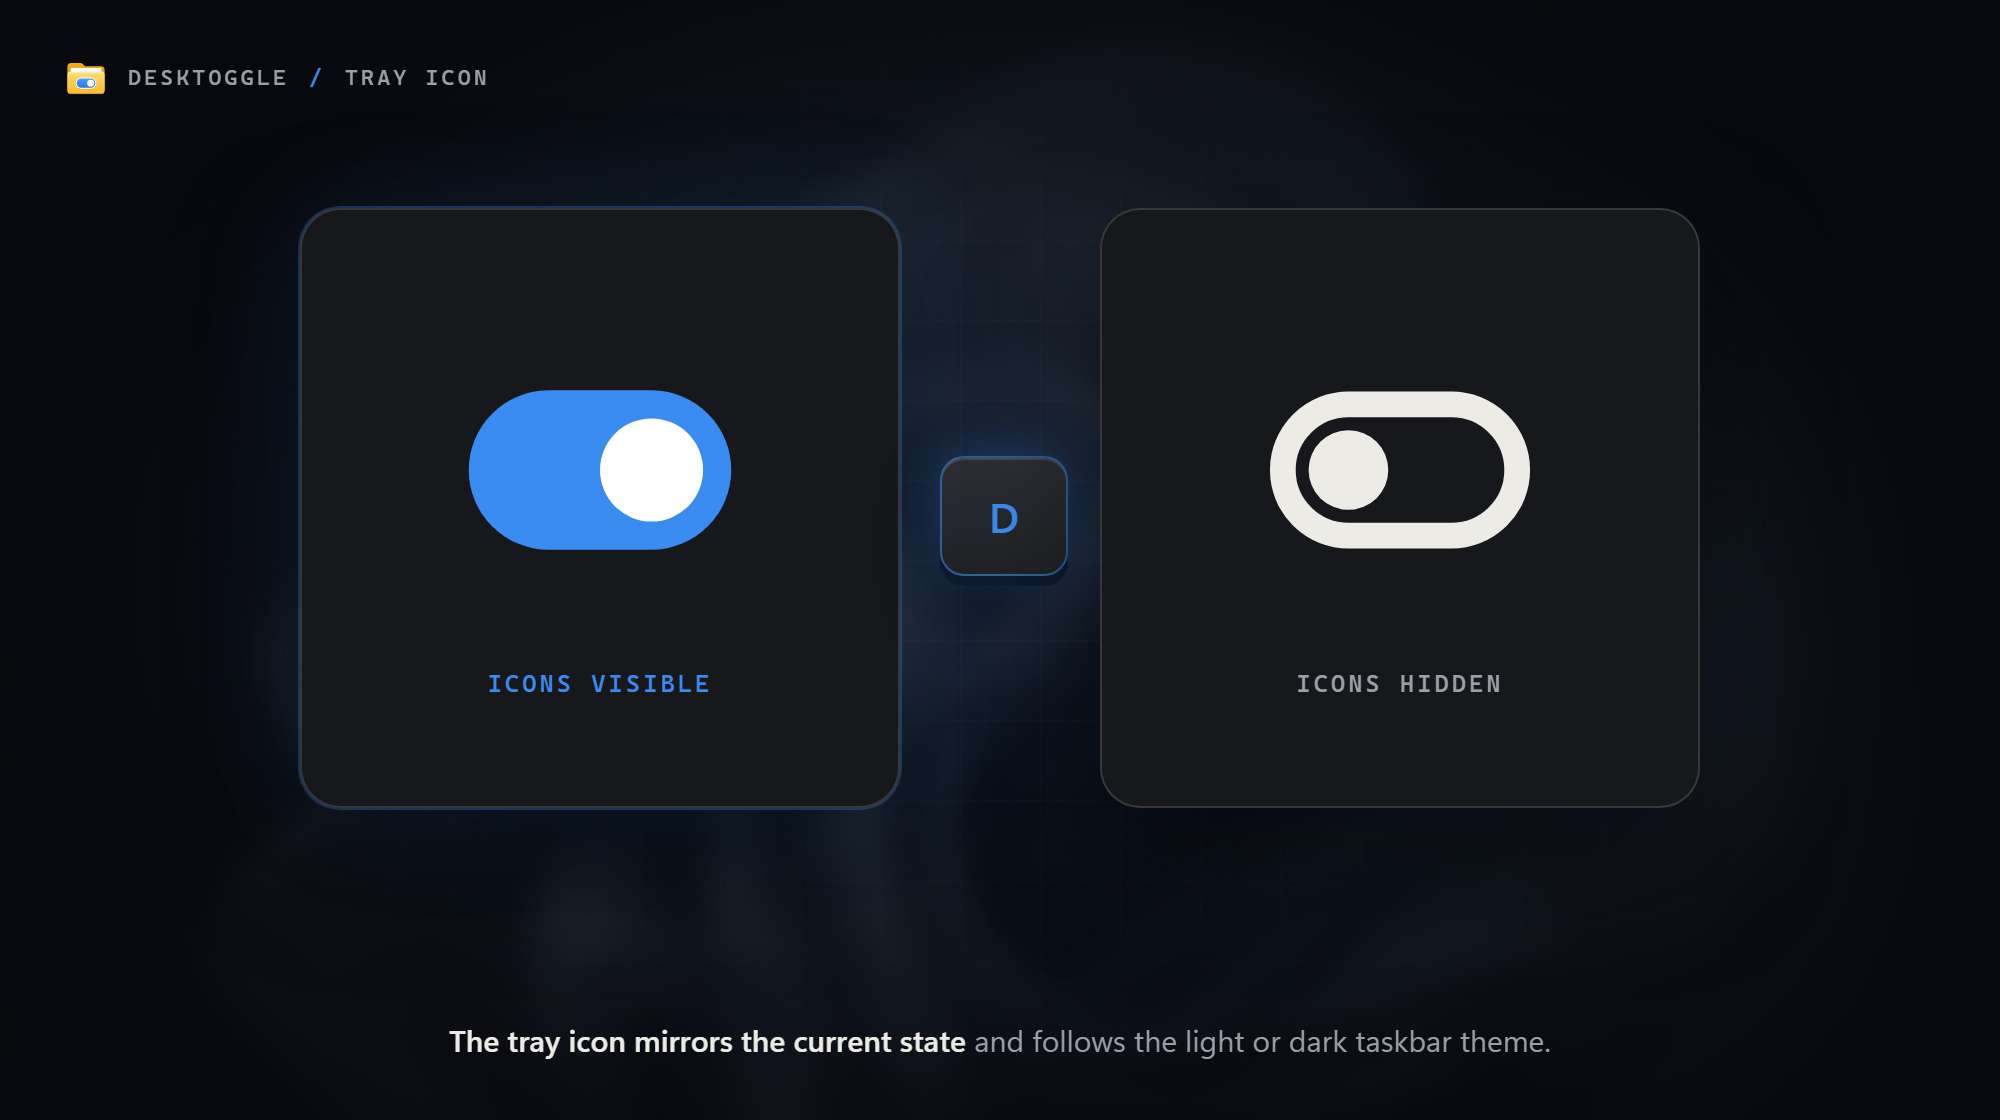
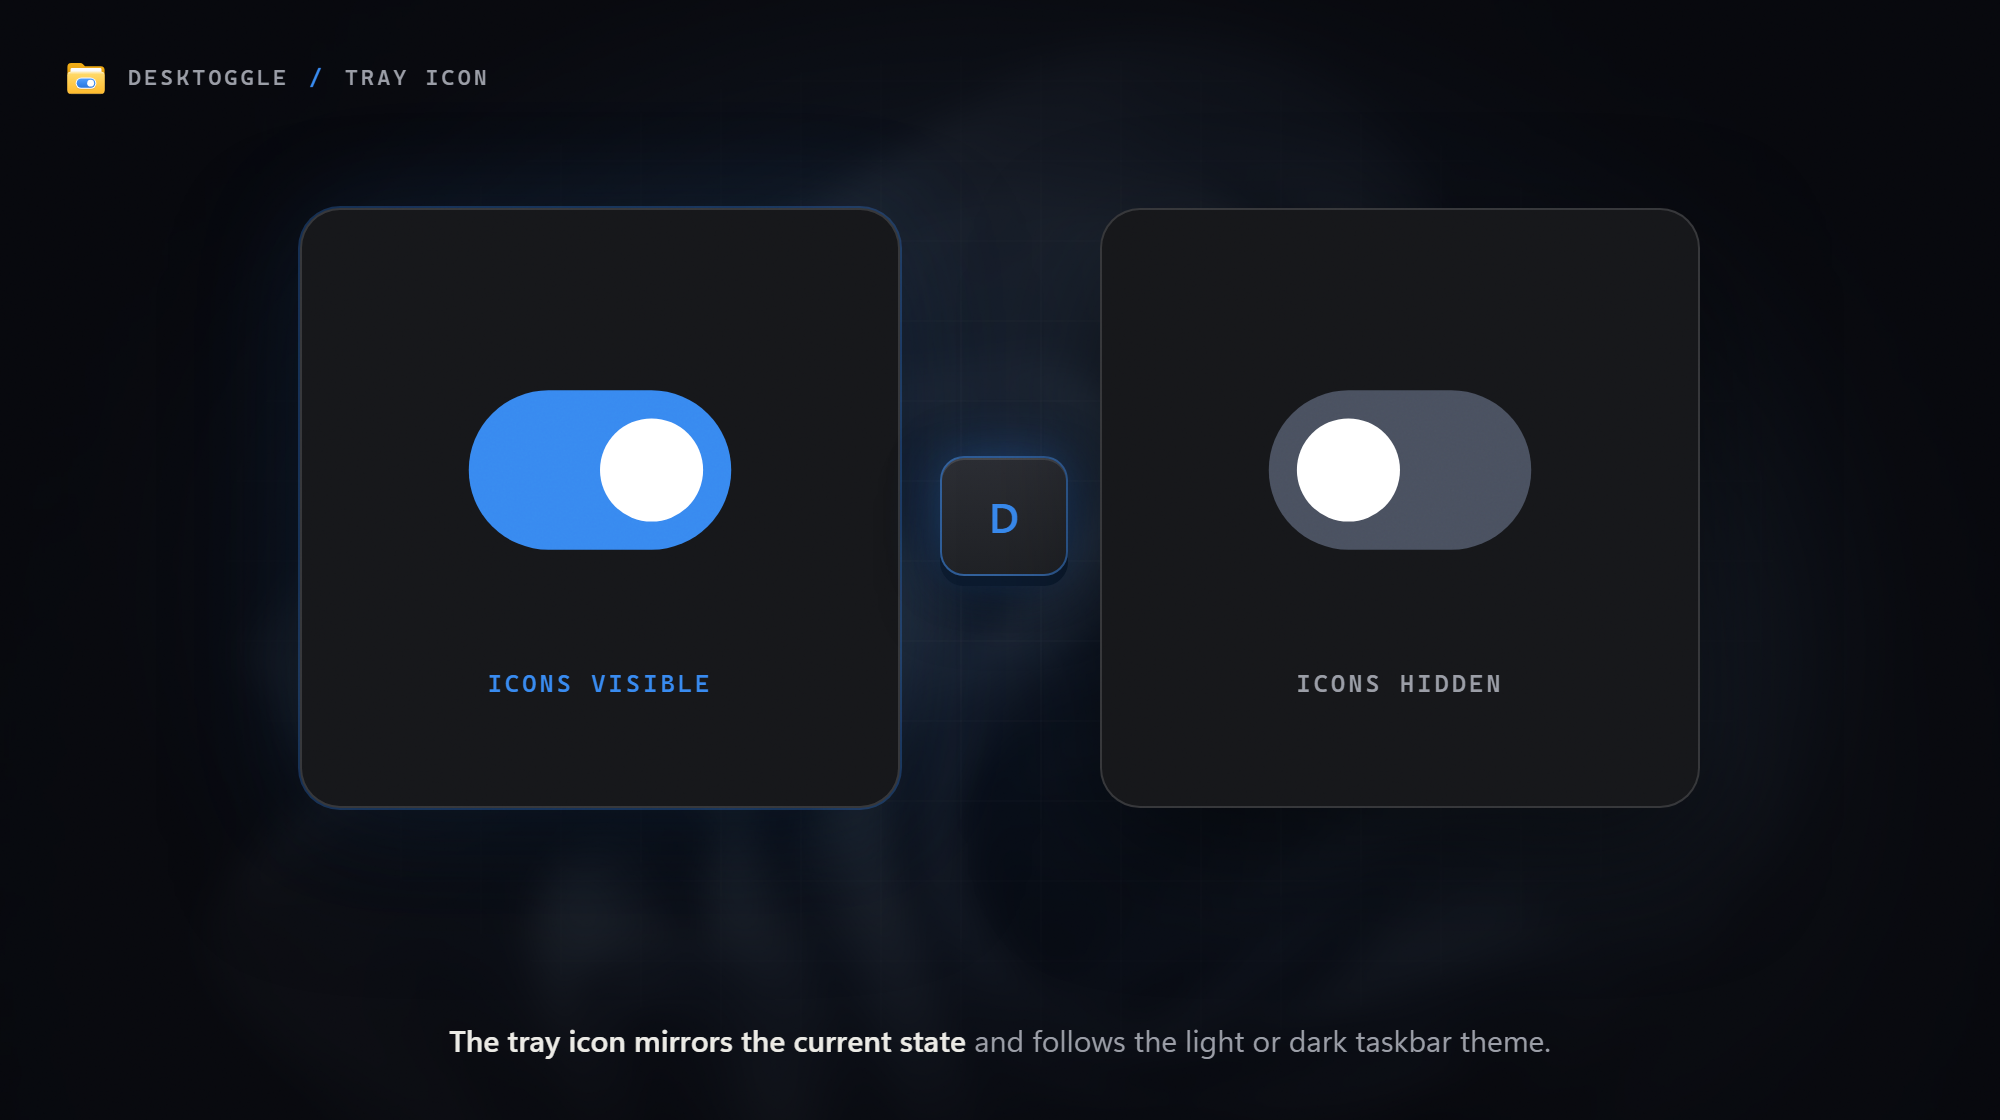
fix(tray): unify hidden tray switch geometry with visible state

Changed region(s): [[0.62, 0.3438, 0.775, 0.5]]

diff --git a/assets/brand/frames/icon-states.html b/assets/brand/frames/icon-states.html
@@ -29,8 +29,8 @@
   <div class="mid keys"><span class="key signal">D</span></div>
   <div class="st b">
     <svg viewBox="0 0 64 64">
-      <rect x="7" y="18" width="50" height="28" rx="14" fill="none" stroke="#ECEBE6" stroke-width="5.5"/>
-      <circle cx="21" cy="32" r="8.5" fill="#ECEBE6"/>
+      <rect x="4" y="15" width="56" height="34" rx="17" fill="#4A5160"/>
+      <circle cx="21" cy="32" r="11" fill="#FFFFFF"/>
     </svg>
     <span class="label">Icons hidden</span>
   </div>

diff --git a/src/DesktopIconsToggle/TrayIconArt.cs b/src/DesktopIconsToggle/TrayIconArt.cs
@@ -4,21 +4,23 @@ using DesktopIconsToggle.Native;
 namespace DesktopIconsToggle;
 
 /// <summary>
-/// Draws the two tray icon states the notification area shows: a filled blue toggle switch
-/// with its white knob on the right while the desktop icons are visible, and an outlined
-/// toggle switch with its knob on the left while they are hidden — so the tray icon itself
-/// answers "are my icons on" at a glance. Built the way <see cref="MenuIcons"/> builds its
-/// bitmaps — a 32-bit top-down <c>CreateDIBSection</c> written directly as premultiplied
-/// BGRA — then turned into an <c>HICON</c> via <c>CreateIconIndirect</c>. Sized from
-/// <c>SM_CXSMICON</c> so the art tracks DPI instead of being fixed to 16 px, and coloured
-/// from <see cref="Theme.IsSystemDark"/> — the taskbar/notification-area theme, which is
-/// independent of the app theme <see cref="MenuIcons"/> uses for the popup menu.
+/// Draws the two tray icon states the notification area shows: the exact same solid toggle
+/// switch in both states — filled blue with its white knob on the right while the desktop
+/// icons are visible, and filled neutral slate with the same white knob slid to the left while
+/// they are hidden — so the tray icon reads as one switch toggling on and off at a glance.
+/// Built the way <see cref="MenuIcons"/> builds its bitmaps — a 32-bit top-down
+/// <c>CreateDIBSection</c> written directly as premultiplied BGRA — then turned into an
+/// <c>HICON</c> via <c>CreateIconIndirect</c>. Sized from <c>SM_CXSMICON</c> so the art tracks
+/// DPI instead of being fixed to 16 px, and coloured from <see cref="Theme.IsSystemDark"/> —
+/// the taskbar/notification-area theme, which is independent of the app theme
+/// <see cref="MenuIcons"/> uses for the popup menu.
 /// </summary>
 internal sealed class TrayIconArt : IDisposable
 {
-    // COLORREF-style values (0x00BBGGRR), but grayscale so channel order is moot.
-    private const uint LightTaskbarColor = 0x00202020u; // near-black, for a light taskbar
-    private const uint DarkTaskbarColor  = 0x00EBEBEBu; // near-white, for a dark taskbar
+    // Inactive track fills (COLORREF 0x00BBGGRR) chosen so both the pill against the taskbar
+    // and the white knob against the pill stay clearly legible in dark and light modes.
+    private const uint DarkTaskbarOffTrackColor  = 0x0060514Au; // RGB(74, 81, 96)  (#4A5160)
+    private const uint LightTaskbarOffTrackColor = 0x0090827Bu; // RGB(123, 130, 144) (#7B8290)
 
     // The active toggle blue, RGB(56, 138, 240) (#388AF0, shared with FolderTags),
     // written as a COLORREF (0x00BBGGRR): blue=0xF0, green=0x8A, red=0x38. Run through
@@ -35,10 +37,10 @@ internal sealed class TrayIconArt : IDisposable
         Refresh();
     }
 
-    /// <summary>Filled blue toggle pill with the knob on the right — desktop icons are visible.</summary>
+    /// <summary>Filled blue toggle pill with the white knob on the right — desktop icons are visible.</summary>
     public IntPtr Visible => _visible;
 
-    /// <summary>Outlined toggle pill with the knob on the left — desktop icons are hidden.</summary>
+    /// <summary>Same solid toggle pill in neutral slate with the white knob on the left — desktop icons are hidden.</summary>
     public IntPtr Hidden => _hidden;
 
     /// <summary>
@@ -56,11 +58,11 @@ internal sealed class TrayIconArt : IDisposable
             size = 16;
         }
 
-        uint frameColor = _theme.IsSystemDark ? DarkTaskbarColor : LightTaskbarColor;
-        uint tileColor = IconPalette.EnsureContrast(TileColor, _theme.IsSystemDark);
+        uint activeTrackColor = IconPalette.EnsureContrast(TileColor, _theme.IsSystemDark);
+        uint inactiveTrackColor = _theme.IsSystemDark ? DarkTaskbarOffTrackColor : LightTaskbarOffTrackColor;
 
-        IntPtr newVisible = Render(size, frameColor, tileColor, isVisible: true);
-        IntPtr newHidden = Render(size, frameColor, tileColor, isVisible: false);
+        IntPtr newVisible = Render(size, activeTrackColor, knobRight: true);
+        IntPtr newHidden = Render(size, inactiveTrackColor, knobRight: false);
 
         DestroyIfPresent(_visible);
         DestroyIfPresent(_hidden);
@@ -86,7 +88,7 @@ internal sealed class TrayIconArt : IDisposable
     /// failure: keeping them would leak, and the leak would repeat on every
     /// <see cref="Refresh"/>.
     /// </summary>
-    private static IntPtr Render(int size, uint frameColorRef, uint tileColorRef, bool isVisible)
+    private static IntPtr Render(int size, uint trackColorRef, bool knobRight)
     {
         IntPtr screenDc = Win32.GetDC(IntPtr.Zero);
         if (screenDc == IntPtr.Zero)
@@ -133,7 +135,7 @@ internal sealed class TrayIconArt : IDisposable
                 IntPtr previousBitmap = Win32.SelectObject(memDc, colorBitmap);
                 Win32.SelectObject(memDc, previousBitmap);
 
-                Paint(bits, size, frameColorRef, tileColorRef, isVisible);
+                Paint(bits, size, trackColorRef, knobRight);
 
                 IntPtr maskBitmap = Win32.CreateBitmap(size, size, 1, 1, IntPtr.Zero);
                 if (maskBitmap == IntPtr.Zero)
@@ -170,32 +172,24 @@ internal sealed class TrayIconArt : IDisposable
     }
 
     /// <summary>
-    /// Writes an anti-aliased horizontal toggle pill and circular knob directly into the
+    /// Writes an anti-aliased horizontal toggle pill and white circular knob directly into the
     /// DIB's premultiplied BGRA buffer using signed-distance fields on a 16-unit reference
-    /// grid scaled to <paramref name="size"/>. When <paramref name="isVisible"/> is true,
-    /// the pill is filled with <paramref name="tileColorRef"/> and a white knob sits on the
-    /// right; when false, the pill is stroked with <paramref name="frameColorRef"/> and the
-    /// knob sits on the left.
+    /// grid scaled to <paramref name="size"/>. Both states share the exact same pill and knob
+    /// geometry; only <paramref name="trackColorRef"/> and <paramref name="knobRight"/> change.
     /// </summary>
-    private static unsafe void Paint(IntPtr bits, int size, uint frameColorRef, uint tileColorRef, bool isVisible)
+    private static unsafe void Paint(IntPtr bits, int size, uint trackColorRef, bool knobRight)
     {
-        byte frameR = (byte)(frameColorRef & 0xFF);
-        byte frameG = (byte)((frameColorRef >> 8) & 0xFF);
-        byte frameB = (byte)((frameColorRef >> 16) & 0xFF);
-
-        byte tileR = (byte)(tileColorRef & 0xFF);
-        byte tileG = (byte)((tileColorRef >> 8) & 0xFF);
-        byte tileB = (byte)((tileColorRef >> 16) & 0xFF);
+        byte trackR = (byte)(trackColorRef & 0xFF);
+        byte trackG = (byte)((trackColorRef >> 8) & 0xFF);
+        byte trackB = (byte)((trackColorRef >> 16) & 0xFF);
 
         double s = size / 16.0;
         double cy = 8.0 * s;
         double ax = 5.25 * s;
         double bx = 10.75 * s;
-        double rTrackOuter = 4.25 * s;
-        double stroke = Math.Max(1.35, 1.45 * s);
-        double rTrackInner = rTrackOuter - stroke;
-        double rKnobOn = 2.65 * s;
-        double rKnobOff = 1.85 * s;
+        double rTrack = 4.25 * s;
+        double rKnob = 2.65 * s;
+        double knobX = knobRight ? bx : ax;
 
         byte* pixels = (byte*)bits;
         for (int y = 0; y < size; y++)
@@ -212,58 +206,29 @@ internal sealed class TrayIconArt : IDisposable
 
                 byte* pixel = pixels + (y * size + x) * 4;
 
-                if (isVisible)
+                double alphaTrack = Math.Clamp(0.5 - (distTrack - rTrack), 0.0, 1.0);
+                if (alphaTrack <= 0.0)
                 {
-                    double alphaTrack = Math.Clamp(0.5 - (distTrack - rTrackOuter), 0.0, 1.0);
-                    if (alphaTrack <= 0.0)
-                    {
-                        pixel[0] = 0;
-                        pixel[1] = 0;
-                        pixel[2] = 0;
-                        pixel[3] = 0;
-                        continue;
-                    }
-
-                    double dxKnob = px - bx;
-                    double distKnob = Math.Sqrt(dxKnob * dxKnob + dy * dy);
-                    double alphaKnob = Math.Clamp(0.5 - (distKnob - rKnobOn), 0.0, 1.0);
-
-                    double r = tileR + (255.0 - tileR) * alphaKnob;
-                    double g = tileG + (255.0 - tileG) * alphaKnob;
-                    double b = tileB + (255.0 - tileB) * alphaKnob;
-
-                    byte a = (byte)Math.Round(alphaTrack * 255.0);
-                    pixel[0] = (byte)Math.Round(b * a / 255.0);
-                    pixel[1] = (byte)Math.Round(g * a / 255.0);
-                    pixel[2] = (byte)Math.Round(r * a / 255.0);
-                    pixel[3] = a;
+                    pixel[0] = 0;
+                    pixel[1] = 0;
+                    pixel[2] = 0;
+                    pixel[3] = 0;
+                    continue;
                 }
-                else
-                {
-                    double sdfOuter = distTrack - rTrackOuter;
-                    double sdfInner = rTrackInner - distTrack;
-                    double alphaRing = Math.Clamp(0.5 - Math.Max(sdfOuter, sdfInner), 0.0, 1.0);
 
-                    double dxKnob = px - ax;
-                    double distKnob = Math.Sqrt(dxKnob * dxKnob + dy * dy);
-                    double alphaKnob = Math.Clamp(0.5 - (distKnob - rKnobOff), 0.0, 1.0);
+                double dxKnob = px - knobX;
+                double distKnob = Math.Sqrt(dxKnob * dxKnob + dy * dy);
+                double alphaKnob = Math.Clamp(0.5 - (distKnob - rKnob), 0.0, 1.0);
 
-                    double alpha = Math.Max(alphaRing, alphaKnob);
-                    if (alpha <= 0.0)
-                    {
-                        pixel[0] = 0;
-                        pixel[1] = 0;
-                        pixel[2] = 0;
-                        pixel[3] = 0;
-                        continue;
-                    }
+                double r = trackR + (255.0 - trackR) * alphaKnob;
+                double g = trackG + (255.0 - trackG) * alphaKnob;
+                double b = trackB + (255.0 - trackB) * alphaKnob;
 
-                    byte a = (byte)Math.Round(alpha * 255.0);
-                    pixel[0] = (byte)((frameB * a + 127) / 255);
-                    pixel[1] = (byte)((frameG * a + 127) / 255);
-                    pixel[2] = (byte)((frameR * a + 127) / 255);
-                    pixel[3] = a;
-                }
+                byte a = (byte)Math.Round(alphaTrack * 255.0);
+                pixel[0] = (byte)Math.Round(b * a / 255.0);
+                pixel[1] = (byte)Math.Round(g * a / 255.0);
+                pixel[2] = (byte)Math.Round(r * a / 255.0);
+                pixel[3] = a;
             }
         }
     }

diff --git a/CHANGELOG.md b/CHANGELOG.md
@@ -20,7 +20,8 @@ and this project adheres to [Semantic Versioning](https://semver.org/spec/v2.0.0
 - Sibling visual identity unified with FolderTags:
   - Application icon (`assets/brand/logo.svg`, `app.ico` and generated MSIX Store tiles) now uses
     the Windows 11 warm gold folder carrying a `#388AF0` blue toggle switch on the front flap.
-  - Notification-area active pill (`TrayIconArt`), README badges, hero (`assets/hero.png`),
+  - Notification-area switch (`TrayIconArt` — unified solid pill with white knob in both `#388AF0`
+    active and neutral slate inactive states), README badges, hero (`assets/hero.png`),
     social preview (`assets/brand/social-preview.png`) and framed screenshots aligned to the
     FolderTags dark Mica aesthetic and `#388AF0` accent.
 
